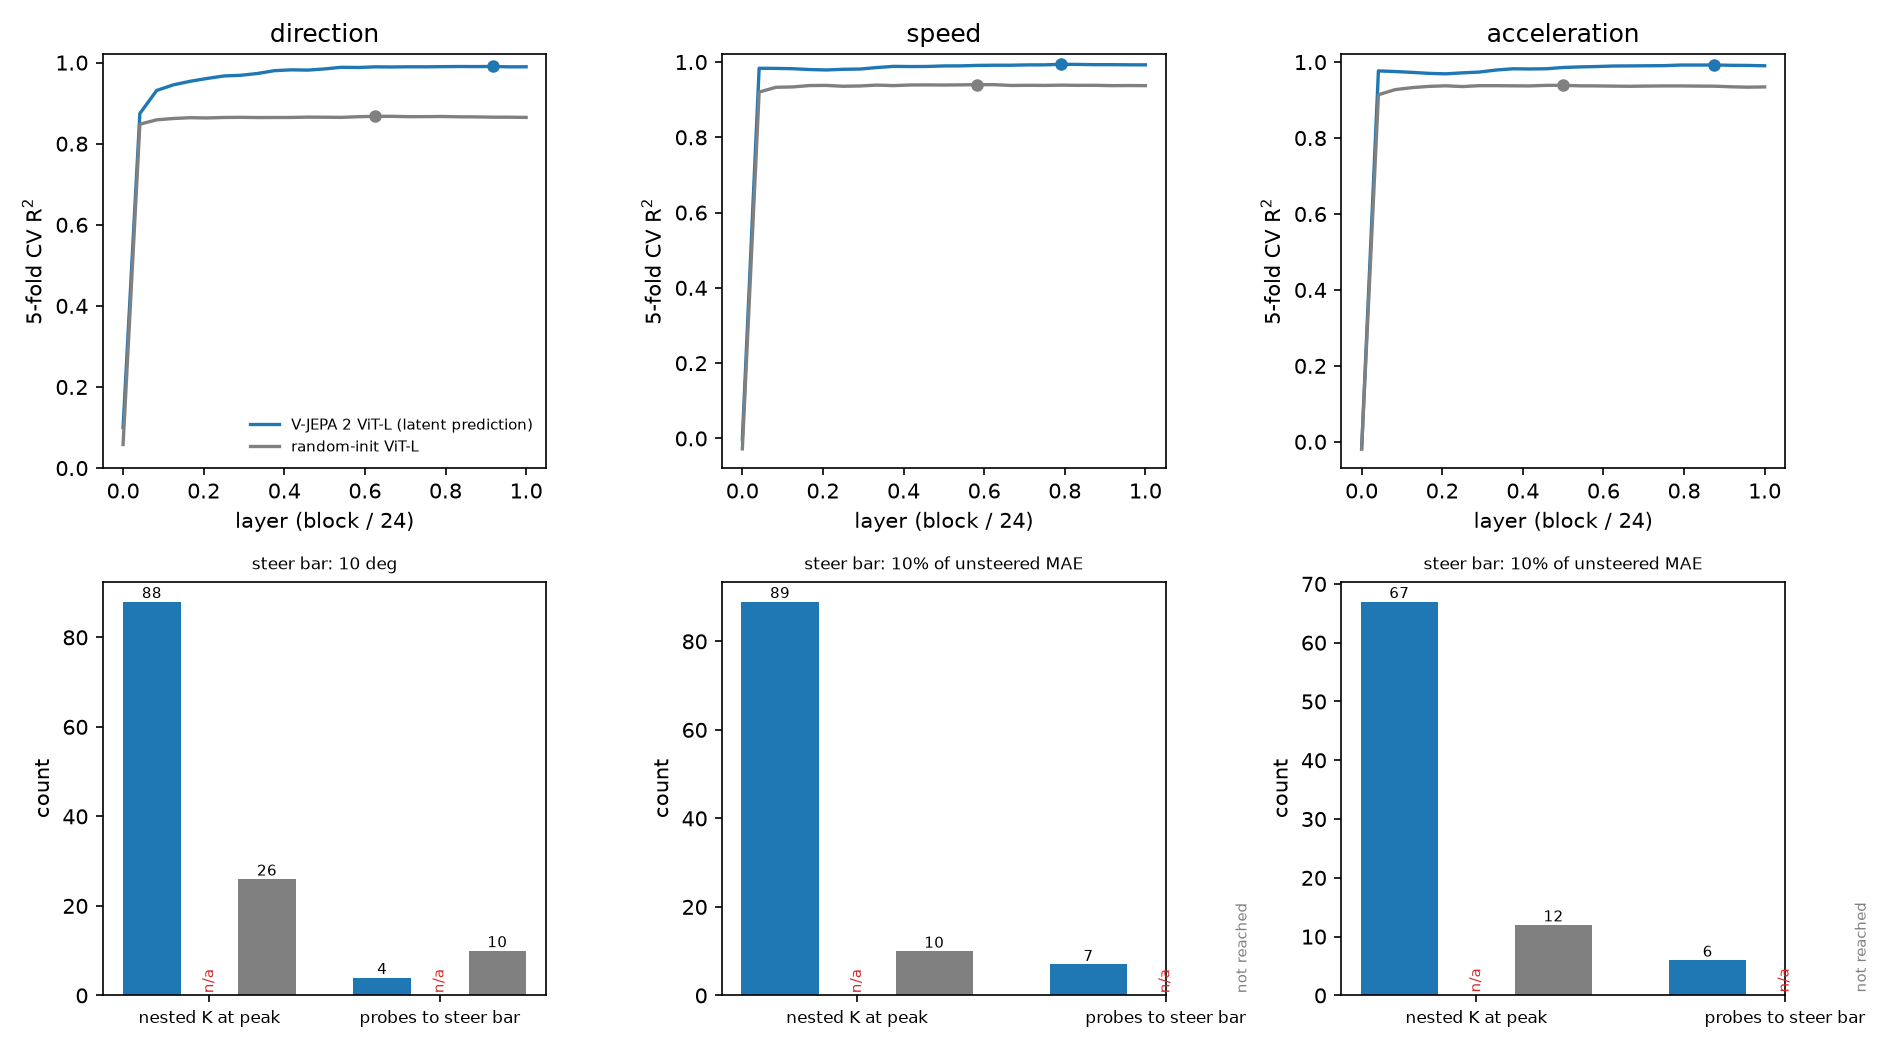
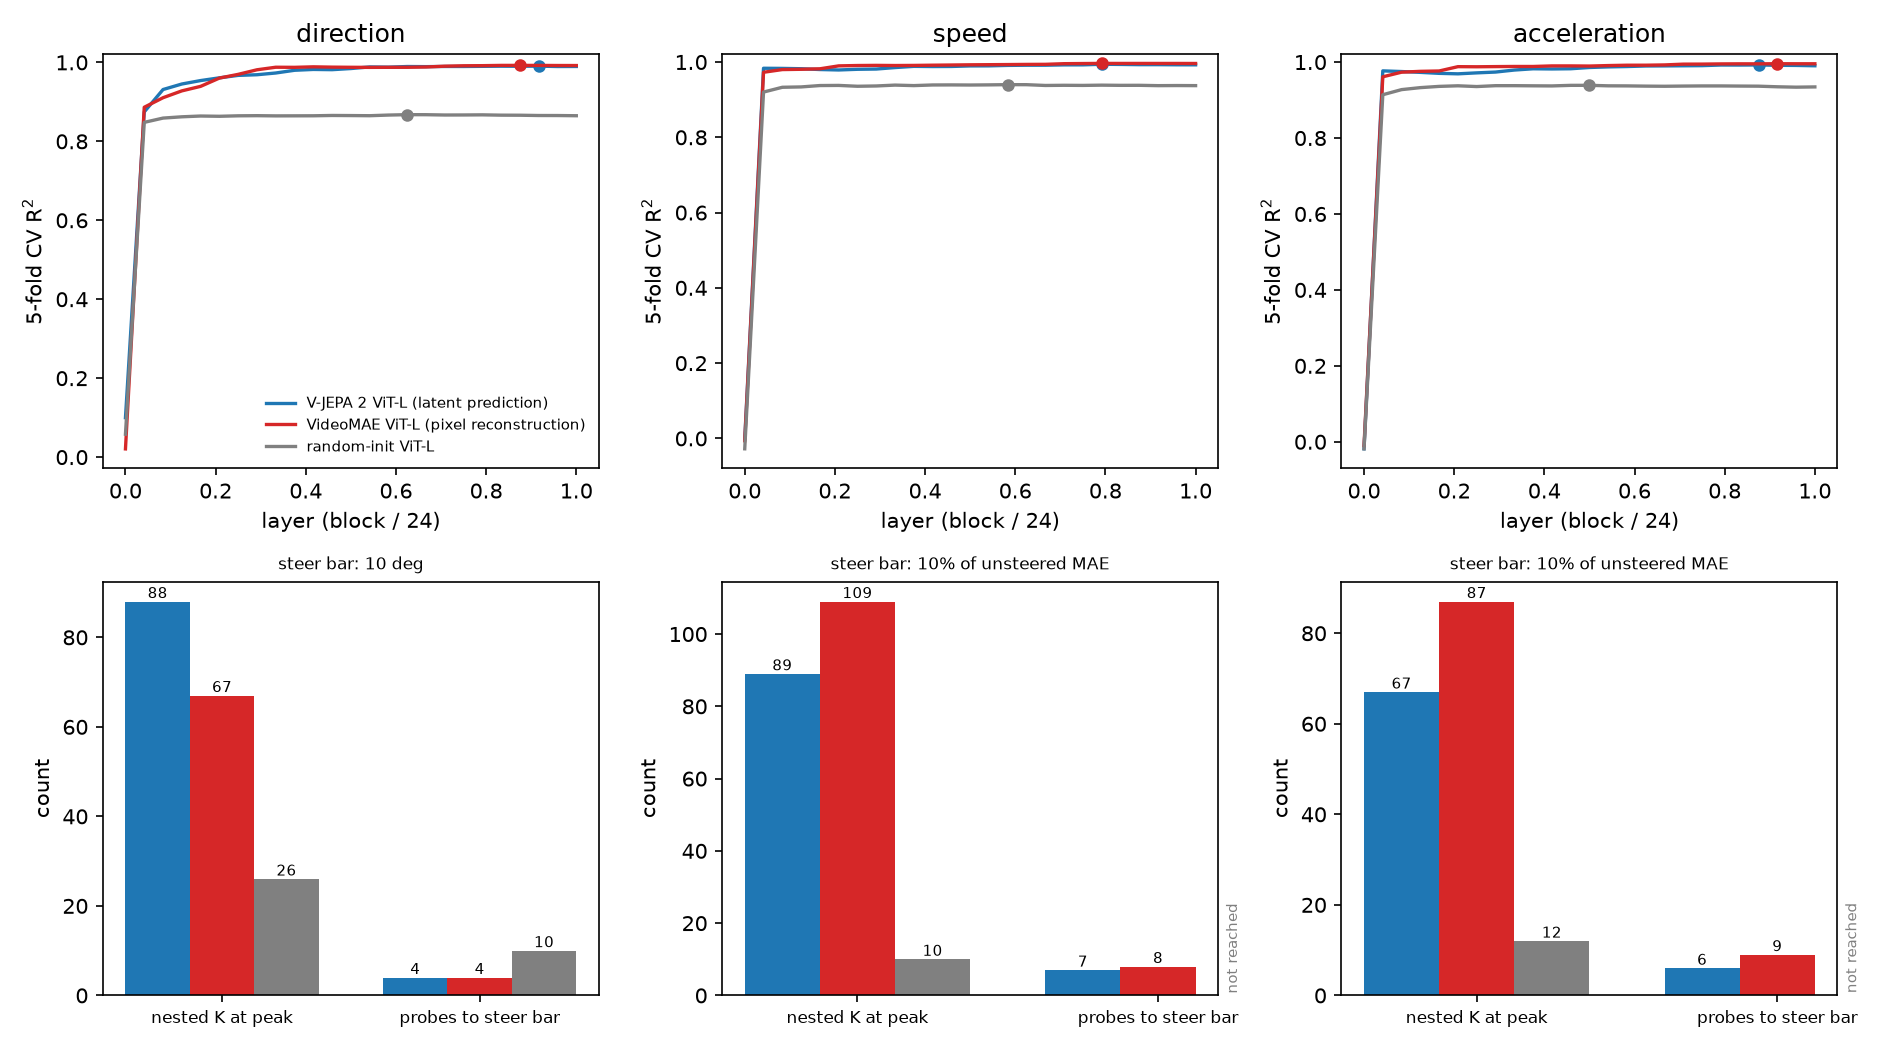
REPORT.md: five review edits + fig5 regenerated with VideoMAE
1. figures/fig5_objective_axis.png regenerated from results/objective_axis.json (V-JEPA 2, VideoMAE, random-init); JSON not rewritten
2. §2: note on four internal inconsistencies in the paper text (C.11 vs Fig. 22 threshold, 80/20 vs 70/30, C.12 eval probe on steered clips, <0.5° vs 11.9°), line refs to refs/physics_paper.txt
3. §4.5 (+§1, §6, §7): predictor test restated as uninformative (forecast 61° / 68 px off under real-token probes, ceiling R = 0.0185; shuffled targets ≤ 39° apart), next step named
4. §3.2 (+§1): four-estimand dimensionality table from p1b_dims_four_ways.json (literal vs whitened K, LEACE ridge vs MLP, centroid DFT, planted controls), fig2c referenced
5. §6: authors' OpenReview response (direction in all 13 models) framed as availability; training buys precision, fewer probes, label-free ring

Claude-Session: https://claude.ai/code/session_016UTdUiAKijuTXgu3WAFht8

diff --git a/REPORT.md b/REPORT.md
@@ -17,23 +17,24 @@ harder rendered set (textured floor, shading, smaller disk; 392 clips, 8 directi
 point 2 to point 5 and V-JEPA's block 1 falls below the random-init network's: a partial recovery of the emergence
 zone. VideoMAE (pixel reconstruction) matches V-JEPA 2 on all three variables with the same onsets. **Step 2
 reproduces in part.** Every variable needs tens of probes at the paper's layer, far outside a random-removal band.
-Speed does not need fewer probes than direction, and the ridge curves have no sawtooth. Under the paper's literal Adam
-recipe both variables' curves are jagged and K roughly doubles, with no direction-specific sawtooth. **Step 3
-reproduces in shape** (one probe fails, a few probes reach the target, MAE-to-true rises), with fewer probes than the
-paper needs. However, a random orthonormal basis of rank 2K matches the learned one up to N≈5, the same curve appears
-in an untrained network, and at the onset layer the learned basis never beats the random one. Rerunning Parts 1 and 2
-at the paper's literal 70/30 split changes no qualitative verdict. **Part 2.** Direction lies on a ring that is
-recovered without labels at mid depth. At held-out direction values the spline path stays on the ring and the straight
-path cuts through it: the minimum readout radius is higher for the spline by +0.26 ± 0.05 at point 12 and +0.24 ± 0.07
-at point 22 (mean ± SD over 16 runs covering 15 distinct held-out 45° arcs), and it is higher on every arc. The
-endpoint error ties at point 12 (+0.08° ± 1.47) and slightly favours the line at point 22 (+1.26° ± 3.54; 3 of 16
-runs flagged "negative_endpoint"). Readouts that did not build the edit
-(nearest-real-clip agreement, an MLP on disjoint clips) do not separate the two. Speed and acceleration are straight
-lines, and there the spline adds nothing. **Beyond the steered layer (GPU session 2).** Edits at points ≤ 12 wash out
-within a few blocks. Point-22 edits survive to the output but are not target-specific. The predictor readout is
-ceiling-limited: even the real counterfactual context recovers only R = 0.0185 of the real future change, and no arm
-beats its shuffled-target control. So the Part 2 advantage is geometric at the steered layer, and nothing the model
-does downstream shows it.
+Measured four ways, that count reflects anisotropy: a whitened erasure needs one probe at every point; the code is
+rank-2 linear plus a second harmonic and a nonlinear residual (§3.2). Speed does not need fewer probes than direction,
+and the ridge curves have no sawtooth. Under the paper's literal Adam recipe both variables' curves are jagged and K
+roughly doubles, with no direction-specific sawtooth. **Step 3 reproduces in shape** (one probe fails, a few probes
+reach the target, MAE-to-true rises), with fewer probes than the paper needs. However, a random orthonormal basis of
+rank 2K matches the learned one up to N≈5, the same curve appears in an untrained network, and at the onset layer the
+learned basis never beats the random one. Rerunning Parts 1 and 2 at the paper's literal 70/30 split changes no
+qualitative verdict. **Part 2.** Direction lies on a ring that is recovered without labels at mid depth. At held-out
+direction values the spline path stays on the ring and the straight path cuts through it: the minimum readout radius
+is higher for the spline by +0.26 ± 0.05 at point 12 and +0.24 ± 0.07 at point 22 (mean ± SD over 16 runs covering 15
+distinct held-out 45° arcs), and it is higher on every arc. The endpoint error ties at point 12 (+0.08° ± 1.47) and
+slightly favours the line at point 22 (+1.26° ± 3.54; 3 of 16 runs flagged "negative_endpoint"). Readouts that did not
+build the edit (nearest-real-clip agreement, an MLP on disjoint clips) do not separate the two. Speed and acceleration
+are straight lines, and there the spline adds nothing. **Beyond the steered layer (GPU session 2).** Edits at points ≤
+12 wash out within a few blocks. Point-22 edits survive to the output with little target specificity (shuffled targets
+are at most 39° away). The predictor test is uninformative, not negative: the unedited forecast reads its own clip's
+direction 61° off and the real counterfactual context recovers only R = 0.0185 of the real future change, so it could
+not have seen an edit. The Part 2 advantage is geometric at the steered layer; downstream use is still open.
 
 ## 2. Setup
 
@@ -70,6 +71,13 @@ does downstream shows it.
 | INLP K | probes until test at chance | nested K (held-out folds), paper-protocol K beside it | both below |
 | Steering basis length | until R² < 0.1 on train | all-train sequence cut at nested K | length never chosen on test |
 | INLP recipe | Adam lr 1e-3, wd 1e-4 | ridge; literal Adam sequence run once at points 8 and 9 | curves jagged and K ≈ 2× under Adam; no direction-specific sawtooth (§3.2) |
+
+**Four places where the paper's text disagrees with itself, and how each was handled**[^ptxt]. (a) The INLP stopping
+threshold for direction is R² < 0.1 in C.11 and R² < 0.3 in the Fig. 22 caption: each `p1b` file has both (`K`,
+`K_loose`; §3.2). (b) The split is 80/20 in C.11 and 70/30 in C.12: we ran both (§3.4). (c) C.12 fits its evaluation
+probe on the test clips it then steers and scores (independent of the steering probes but not of those clips): her
+protocol is our §3.3 headline, with a split-half version beside it (12.4° / 17.1° at N = 5 vs 8.7°). (d) The main text
+reports < 0.5° with all probe directions, the appendix 11.9° held-out with 20 probes: we report every N.
 
 **Probe-recipe parity** (point = CV-peak layer; pooled out-of-fold R², targets standardised for Adam[^recipe]):
 ridge vs Adam (C.11 recipe) is 0.9905 vs 0.9858 for direction, 0.9940 vs 0.9882 for speed and 0.9925 vs 0.9871 for
@@ -193,6 +201,25 @@ and `p1b_*_random_L{pt}.json`.
   −0.47). Direction has no isolated dips in any run; speed has 1, 2, 2 and 0. No round failed to train[^adam]. So the
   literal Adam recipe gives a jagged curve and a larger K for both variables, with no direction-specific sawtooth.
   Both are properties of the optimiser, not of the representation.
+
+**How many dimensions, four ways** (train clips only; `figures/fig2c_dims_four_ways.png`)[^dim4], for her open
+question (is direction "organized around a harmonic basis rather than a set of independent feature axes"?) and for Jin
+et al.'s proof (arXiv 2608.10566) that the literal INLP count is not invariant to invertible reparameterisation.
+
+| | literal K | whitened K | LEACE-2 ridge R² | LEACE-2 MLP R² | centroid power k = 1 / 2 / 3 |
+|---|---:|---:|---|---|---|
+| direction, pt 9 / 12 / 22 | 37 / 64 / 88 | 1 | 0.980 / 0.984 / 0.991 → −0.001 | 0.70 → 0.37 / 0.72 → 0.41 / 0.87 → 0.82 | 0.72 / 0.25 / 0.005 (pt 9); 0.66 / 0.26 / 0.011 (pt 22) |
+| speed, pt 9 (LEACE-1) | 39 | 1 | 0.988 → −0.000 | 0.84 → 0.76 | |
+| planted: clean ring / ×30 sheared / + k = 3 harmonic / 3 copies | 1 / 8 / 1 / 1 | 1 | → −0.009 | → −0.24 to −0.31 | 0.995 / 0 / 0; 0.96 / 0 / 0; 0.66 / 0 / 0.32; 0.98 / 0.01 / 0 |
+
+Whitened K is 1 at every point 0–25 for both variables and every ε (0.001–0.1). After LEACE, ridge reads nothing, an
+MLP keeps 0.37–0.82, and every planted ring drops below −0.23. In the centroid DFT, k = 2 holds 0.21–0.37 of the
+non-constant power from point 8 on (0.08–0.16 at points 2–7) and k ≥ 3 together 0.03–0.11. The controls calibrate each
+column: shear inflates literal K (8) but not whitened K, a planted k = 3 harmonic shows up in the DFT (0.32) with
+literal K = 1, and copies do not inflate K. So (i) direction is organised on a harmonic basis (k = 1 plus a cos 2θ
+term shared by opposite directions), not on tens of independent axes, and (ii) the literal count behaves like Jin et
+al.'s sheared circle. "Tens of dimensions" is a conditioning count of an anisotropic rank-2 linear code, not an
+intrinsic rank; beyond that code lies a nonlinear residual that grows toward the output.
 
 **Verdict.** The "tens of dimensions" claim reproduces at the paper's layer against a random band. The claims that
 speed needs fewer and that direction's curve has a sawtooth do not reproduce under ridge. Under Adam both curves are
@@ -500,20 +527,22 @@ carrier has a pixel twin rendered at the target direction (renderer validated on
 | 22 | 3.6 / 10.7 / 3.6 / 89.8 | 17.4 / 25.2 / 21.8 / 100.1 | 23.6 / 26.6 / 23.1 / 99.8 |
 
 Edits at points 2–12 wash out: four blocks after the edit the error is already 82–88° for every edit arm except the
-overshooting spline (for example point 12 → 16), and at point 25 MAE-to-true is back to 4–7°. At the steered point the arms are read by a probe of the same family
-that built them, so those columns are not independent evidence. Point-22 edits survive the last three blocks (15–25°
-at point 25), but they are not target-specific. Scored against the neighbouring target instead of the true one, the
-error rises by only 1–6° at point 25, against 7–13° at the steered point. The activation readout says the same:
-the projection of the edit onto the twin's real activation change at point 25 is 0.16 / 0.23 / 0.22 (probe-QR /
-smoothed spline / chord) against 0.15 / 0.21 / 0.21 for the shuffled twin (`readout_b`). The interpolating spline
-overshoots (‖Δ‖ = 7.2× the natural twin change at point 12, vs 0.5–0.6× for the other arms) and is excluded from the
-reading.
+overshooting spline (for example point 12 → 16), and at point 25 MAE-to-true is back to 4–7°. At the steered point the
+arms are read by a probe of the same family that built them, so those columns are not independent evidence. Point-22
+edits survive the last three blocks (15–25° at point 25), with weak target specificity. Scored against the
+neighbouring target instead of the true one, the error rises by only 1–6° at point 25, against 7–13° at the steered
+point. All targets lie in the held-out 45° arc (neighbour at most 39° away, 16.5° on average[^s2]), so this control
+shows specificity shrinking, not gone. The activation readout says the same: the projection of the edit onto the
+twin's real activation change at point 25 is 0.16 / 0.23 / 0.22 (probe-QR / smoothed spline / chord) against 0.15 /
+0.21 / 0.21 for the shuffled twin (`readout_b`). The interpolating spline overshoots (‖Δ‖ = 7.2× the natural twin
+change at point 12, vs 0.5–0.6× for the other arms) and is excluded from the reading.
 
 **Predictor** (context frames 1–8 edited at every token, predictor forecasts tubelets 4–7; R = projection of the
-forecast change on the real twin-minus-source future change; source `session2_predictor.json`). The ceiling comes
-first: forecasting from the *real rendered twin's* context recovers only R = 0.0185 [0.0173, 0.0195] of the real future
-change (0.073 on disk tokens). The unsteered forecast is also far from the real future on the direction readout (61°
-vs 3.4° for the encoder's own future tokens). Against that ceiling:
+forecast change on the real twin-minus-source future change; source `session2_predictor.json`). **This test is
+uninformative, not negative.** Probes fit on the encoder's real future tokens (direction 3.4° on them) read the
+unedited forecast 61° from its source clip's direction and 68 px from its position[^fpos]. The *real rendered twin's*
+context recovers only R = 0.0185 [0.0173, 0.0195] of the real future change (0.073 on disk tokens), so even a perfect
+edit would register at R ≈ 0.02. The values:
 
 | Arm | R, point 12 (shuffled target) | R, point 22 (shuffled target) |
 |---|---|---|
@@ -524,8 +553,8 @@ vs 3.4° for the encoder's own future tokens). Against that ceiling:
 
 At points 2 and 8 every arm is ≤ 0.00011. No arm beats its own shuffled-target control: every pair of 95% CIs
 overlaps, and the point-12 interpolating spline, the largest value (0.0057), equals its control (0.0057). The learned
-arms do beat the matched random edit at point 22. So the predictor readout cannot tell the arms apart on this
-stimulus, and that is a statement about the test's ceiling, not evidence that the arms are equivalent.
+arms do beat the matched random edit at point 22. None of this says the arms are equivalent downstream. The test
+becomes informative with a readout fit on predictor outputs and a shuffled null 180° away.
 
 **Time-reversed clips** (the forward-trained probe read on reversed clips)[^trev]. From point 1 on, the direction probe
 reads θ + 180° on the reversed clip: the error to θ + 180° is 20.5° at point 1 and 5.7–10.3° from point 2 on, with
@@ -558,14 +587,17 @@ twin's position equals the error to the shuffled twin's within 0.4 px for every 
   held-out linear probe, but it beats a random basis only past N ≈ 5, works in an untrained network too, and leaves an
   MLP on disjoint clips 19–31° off. On the ladder in `PART2_RATIONALE.md` §2, this project reaches rung 3 at the
   steered layer and rung 4 only by circular measures. Rung 5 was tested: edits at points ≤ 12 wash out, point-22 edits
-  survive without target specificity, and the predictor readout is too ceiling-limited to separate arms (§4.5).
+  survive with weak target specificity, and the predictor readout had no power to see an edit (§4.5).
 - **Internal world model vs stimulus-response.** For this stimulus class the random-init control gives a direct
   answer to her question. Linear availability of direction, speed and acceleration is architectural (one attention
   block over rotary positions plus a nonlinearity). What V-JEPA's training adds is precision (direction 10.7° → 3.0°
   vs flat for the random network) and a ring that is recovered without labels at mid depth. Carrying direction into
   disk-free tokens is not a training effect: the random-init encoder does it as well. VideoMAE matches V-JEPA 2 on
   every Part 1 measure, so none of this is specific to latent prediction, and none of it shows that the variables are
-  used to predict. We have two points on the training axis (random init, final checkpoint), not a trajectory.
+  used to predict. We have two points on the training axis (random init, final checkpoint), not a trajectory. The
+  authors' OpenReview response states that "all 13 models encode motion direction (R²≥.43), regardless of objective",
+  classification CNNs included, so availability is their own finding; training buys precision, fewer probes to steer
+  (4 vs 10 to reach 10°[^obj]) and a label-free ring.
 - **The linear representation hypothesis: right about the subspace, wrong about the moves.** Direction is linearly
   decodable through (sin, cos), which is a 2-D linear subspace with a ring on it, and nothing in Part 1 contradicts
   the subspace form of the hypothesis. The steering corollary is what fails geometrically: the straight path between
@@ -582,17 +614,14 @@ twin's position equals the error to the shuffled twin's within 0.4 px for every 
   directions, covers direction only and uses one render seed, so it is a pointer, not a reproduction.
 - **Training dynamics.** With intermediate V-JEPA 2 checkpoints, the random-init vs final contrast becomes a curve.
   That is the natural test of when precision and the ring appear.
-- **Predictor ceiling.** The only behavioural readout for an encoder is the predictor's forecast against a rendered
-  counterfactual twin. Here even the real twin's context recovers R = 0.0185 of the real future change, and the
-  unsteered forecast reads direction at 61°. No arm beats its shuffled-target control, so the test cannot
-  discriminate arms. A stimulus where the predictor tracks the future (or a readout trained on predictor outputs) is
-  needed before that null means anything.
+- **Predictor test uninformative.** Probes fit on real tokens read the unedited predictor forecast 61° off in
+  direction and 68 px off in position, and the real twin's context recovers only R = 0.0185, so the test had no power
+  to see an edit; its shuffled targets are at most 39° apart. Next: a readout fit on predictor outputs and a 180°
+  shuffled null.
 - **Post-hoc verdict rule.** The spline-vs-line call was iterated after seeing results and frozen at 8d3cac8 before
   the arc sweep and the 70/30 reruns (§4.2). The gaps and CIs are the evidence; the calls summarise them.
 - **Sample size vs d.** Around 1,200 train clips against d = 1,024 makes K a ridge count at a CV-chosen α. The K
   values should be compared across layers only at a fixed α (see the caveat in `p1b_*_dims.json`).
-- **Evaluation probe.** The paper protocol fits the evaluation probe on the steered clips. The strict split-half
-  version is reported, but the headline table uses the paper's protocol for comparability.
 
 ## 8. Reproducibility
 
@@ -622,6 +651,7 @@ twin's position equals the error to the shuffled twin's within 0.4 px for every 
 - **Tests.** `pytest --collect-only` collects 173 tests at the commit of this report.
 
 [^gpu]: `artifacts/gpu_session1.json`.
+[^ptxt]: Line numbers in `refs/physics_paper.txt` (text of arXiv 2602.07050): (a) 1211 vs 1172; (b) 1207 vs 1243 and 1266; (c) 1245–1246; (d) 430–431 vs 1256 and 1269. Our numbers: `p1b_*` (`K`, `K_loose`), `results/split70/COMPARISON.md`, `p1c_direction_L9_strict.json` (`strict_eval`), `p1c_direction_L9.json`.
 [^s1]: `results/p1a_direction_direction_meanpool.json` (n_train 1200, n_test 300); `results/p1a_paperscale_speed_speed.json` (speed train 1228).
 [^steer]: `results/p2_steer_*` (n_test_clips 308 for speed/acceleration; `sagitta_per_target`; `n_knot_clips` 632, `n_probe_clips` 480).
 [^recipe]: `results/p1a_probe_recipe_check.json`.
@@ -631,12 +661,13 @@ twin's position equals the error to the shuffled twin's within 0.4 px for every 
 [^pss]: `results/p1a_paperscale_speed_speed.json`.
 [^adam]: `results/p1b_{direction_direction,speed_speed}_meanpool_L{8,9}_adam_{b64,full}.json` (`K_first`, `sawtooth.by_metric`, `rounds[].failed_to_train`).
 [^p1cr]: `results/p1c_direction_L9_random.json`.
+[^dim4]: `results/p1b_dims_four_ways.json` (`variables.{direction,speed}.layers[].{literal,whitened,leace,dft}`, `control.{clean_ring,sheared_ring_x30,ring_with_k3_harmonic,three_copies}`; DFT column = `dft.frac_k_ge_1`, share of non-constant power); per-layer K and α in `p1b_*_meanpool_dims.json`.
 [^strict]: `results/p1c_direction_L9_strict.json` (`strict_eval`).
 [^planted]: `results/p2_planted_ring_direction_L12.json`.
 [^vp]: `results/p2_velocity_plane.json`.
 [^sheet]: `results/p2_sheet_speed_L{12,19}.json` (`verdict`, `summary`).
 [^bake]: `results/p2_bakeoff_direction_direction_L{12,22}_contiguous.json`.
-[^s2]: `results/session2_plan.json`, `results/session2_renderer_validation.json`, `results/session2_stimuli_validation.json`.
+[^s2]: `results/session2_plan.json` (`targets`: 4 per carrier, all in 303.75°–343.125°), `results/session2_renderer_validation.json`, `results/session2_stimuli_validation.json`.
 [^fig22]: `loose_threshold` in each `p1b_*` file: R² < 0.3 for direction and R² < 0.1 for speed and acceleration, the thresholds of the paper's Fig. 22. For speed and acceleration the K at that threshold equals the nested K at every V-JEPA point except acceleration at onset (493 vs 466). `K_loose_censored` is true only for VideoMAE acceleration at point 22, where K_loose = 87 is a floor (the sequence stopped while R² was still above 0.1); the V-JEPA files predate the flag.
 [^stim]: `results/stimuli/{paper_layout,hard}/p1a_direction_direction_meanpool{,_random}.json`; `results/session2_stimuli_validation.json`.
 [^s70]: `results/split70/comparison.json`, `results/split70/COMPARISON.md`, `results/split70_p2/COMPARISON.md` and `results/split70_p2/p2_steer_*_contiguous.json`; 80/20 null p from `results/p1c_{direction,speed,acceleration}_L9.json`.
